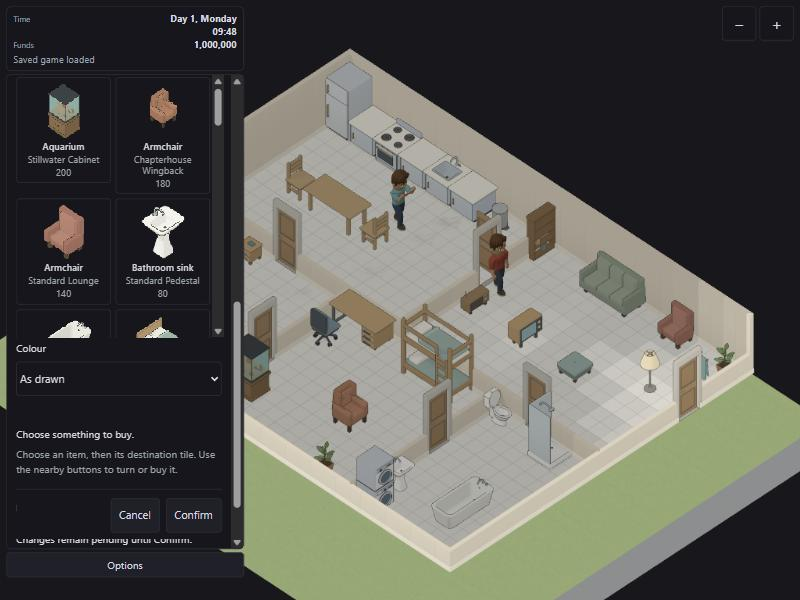
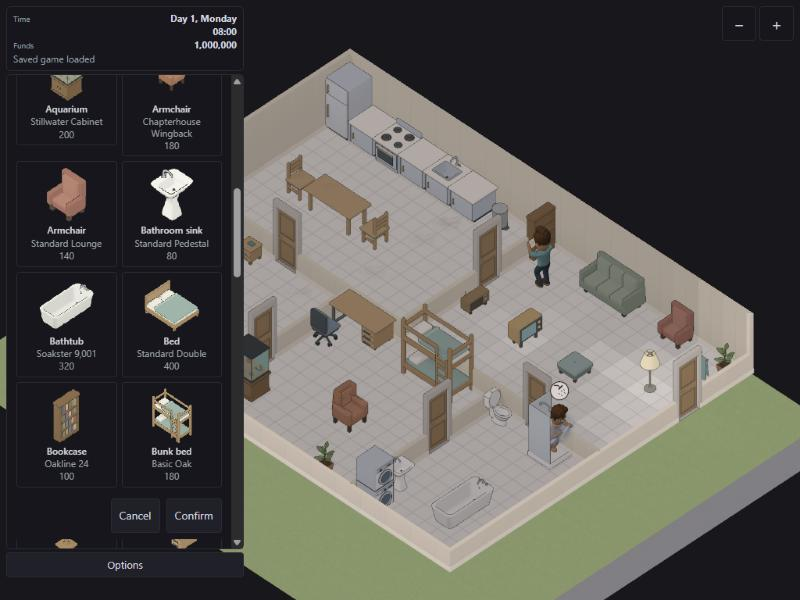
Fit whole cards on the phone, scroll the panel once, and hide the colour list until an item is chosen
The visual review rejected the first played pass. On a phone the dock's
short view showed only the tops of the full-height cards, so a phone
card now lays a 52 pixel picture beside its type, model and price and
fits whole. On a desktop the grid scrolled inside the scrolling panel,
so the panel's pinned footer covered its last row and two scroll bars
stood side by side; only the panel scrolls now. The Colour list showed
with nothing chosen, against rule 4 of the spec; it is hidden until an
item is chosen, with a test. The filters' pressed buttons are drawn in
the accent color so they read as pressed.

The evidence folder holds the final frames, with the clipped phone
frame kept beside the earlier defects.

diff --git a/web/index.html b/web/index.html
@@ -803,9 +803,8 @@
       #buy-clear-filters { justify-self: start; min-height: 36px; font-size: 13px; }
       .catalogue-grid {
         display: grid; grid-template-columns: repeat(auto-fill, minmax(92px, 1fr)); gap: 6px;
-        /* A scrolling grid would otherwise squash its auto rows to the cards' minimum height. */
-        grid-auto-rows: max-content; align-items: start;
-        max-height: 330px; overflow-y: auto; padding: 3px; margin: -3px;
+        /* Only the panel scrolls; rows take their cards' height. */
+        grid-auto-rows: max-content; align-items: start; padding: 3px; margin: -3px;
       }
       .catalogue-card {
         display: grid; justify-items: center; align-content: start; gap: 2px;
@@ -817,6 +816,7 @@
       @media (any-pointer: fine) {
         #builder-controls .catalogue-filters .hud-button, #builder-controls #buy-clear-filters { min-height: 32px; padding: 3px 8px; font-size: 12px; }
       }
+      .catalogue-filters .hud-button[aria-pressed='true'] { border-color: var(--need-fill); color: var(--need-fill); font-weight: 600; }
       .catalogue-card:hover { background: #29313a; }
       .catalogue-card:focus-visible { outline: 2px solid var(--need-fill); outline-offset: 2px; }
       .catalogue-card[aria-pressed='true'] { border-color: var(--need-fill); box-shadow: 0 0 0 1px var(--need-fill); }
@@ -1429,7 +1429,7 @@
             <span class="catalogue-filter-label" id="buy-object-label">Buy</span>
             <div id="buy-object" class="catalogue-grid" role="group" aria-labelledby="buy-object-label"></div>
             <div id="buy-identity" hidden></div>
-            <label for="buy-colour">Colour</label>
+            <label id="buy-colour-label" for="buy-colour">Colour</label>
             <select id="buy-colour"></select>
             <div class="builder-row">
               <span id="buy-facing"></span>

diff --git a/web/src/ui/build-controls.css b/web/src/ui/build-controls.css
@@ -101,12 +101,16 @@ body[data-building='true'] #build-camera { display: flex; }
   #builder-dock .shortcuts { margin-top: 4px; }
   #builder-dock .shortcuts > summary { min-height: 44px; }
   /* A scroll container's automatic minimum height is zero, so the strip
-     keeps the height of its cards or the dock would squeeze it shut. */
-  #builder-dock .catalogue-grid { display: flex; flex-wrap: nowrap; overflow-x: auto; overflow-y: hidden; max-height: none; min-height: max-content; flex: none; }
+     keeps the height of its cards or the dock would squeeze it shut. In the
+     dock a card lays its picture beside its lines, so the whole card fits
+     the dock's short view. */
+  #builder-dock .catalogue-grid { display: flex; flex-wrap: nowrap; overflow-x: auto; overflow-y: hidden; min-height: max-content; flex: none; }
   /* The Buy tool scrolls inside the dock; its rows keep their content's
      height rather than sharing the dock's, so nothing overlaps. */
   #builder-dock #buy-tool { grid-auto-rows: max-content; }
-  #builder-dock .catalogue-card { flex: 0 0 96px; }
+  #builder-dock .catalogue-card { flex: 0 0 172px; grid-template-columns: 52px minmax(0, 1fr); justify-items: start; align-items: center; column-gap: 6px; row-gap: 0; padding: 4px 6px; text-align: left; }
+  #builder-dock .catalogue-picture { grid-row: 1 / span 3; width: 52px; height: 52px; }
+  #builder-dock .catalogue-type, #builder-dock .catalogue-model, #builder-dock .catalogue-price { grid-column: 2; text-align: left; }
 }
 #build-context-layout[hidden] { display: none !important; }
 body[data-build-rows='true'] #build-context-layout { position: fixed; inset: 8px; display: grid; grid-template-rows: auto minmax(24px, 1fr) auto minmax(0, 36dvh); gap: 4px; z-index: 4; pointer-events: none; }

diff --git a/web/src/ui/buy-tool-controls.ts b/web/src/ui/buy-tool-controls.ts
@@ -100,6 +100,7 @@ export class BuyToolControls {
   private readonly showButtons: { value: number | null; button: HTMLButtonElement }[] = [];
   private readonly facts: HTMLElement;
   private readonly colour: HTMLSelectElement;
+  private readonly colourLabel: HTMLElement;
   private readonly serves: HTMLElement;
   private readonly facing: HTMLElement;
   private readonly price: HTMLElement;
@@ -159,6 +160,7 @@ export class BuyToolControls {
       this.render();
     });
     this.colour = required('buy-colour');
+    this.colourLabel = required('buy-colour-label');
     // [RC-slice-buy]: the colourways are content, so the list is built once.
     for (const [index, name] of tool.colourways.entries()) {
       const option = document.createElement('option');
@@ -288,6 +290,9 @@ export class BuyToolControls {
     this.clearFilters.disabled = held || (tool.filter === null && tool.roomFilter === null);
     this.colour.value = String(tool.colourway);
     this.colour.disabled = held || tool.colourways.length < 2;
+    // Rule 4: nothing about an item shows beneath the grid until one is chosen.
+    this.colour.hidden = tool.chosen === null;
+    this.colourLabel.hidden = tool.chosen === null;
     const model = tool.chosen?.model;
     this.facts.textContent = model ? modelFactsLabel(model, this.needNames) : '';
     this.serves.textContent = tool.chosen ? servesLabel(tool.chosen.needs, this.needNames) : '';

diff --git a/web/tests/buy-tool.test.ts b/web/tests/buy-tool.test.ts
@@ -657,6 +657,18 @@ describe('BuyToolControls', () => {
       element('buy-serves').textContent]).toEqual([null, CHOOSE_ITEM, '', '']);
   });
 
+  it('shows the Colour list only while an item is chosen', () => {
+    const { buy, view, element } = controls();
+    buy.enter();
+    view.render();
+    expect([element('buy-colour').hidden, element('buy-colour-label').hidden]).toEqual([true, true]);
+    cards(element)[1].fire('click');
+    expect([element('buy-colour').hidden, element('buy-colour-label').hidden]).toEqual([false, false]);
+    buy.cancel();
+    view.render();
+    expect(element('buy-colour').hidden).toBe(true);
+  });
+
   it('keeps one card in the Tab order, and Choose item focuses the chosen card or the first shown', () => {
     const { buy, source, view, doc, element } = controls();
     buy.enter();

diff --git a/docs/evidence/2026-10-17-store-catalogue/README.md b/docs/evidence/2026-10-17-store-catalogue/README.md
@@ -1,19 +1,23 @@
 # Store catalogue played pass, 2026-10-17
 
-A played check of the Buy tool's catalogue (issue 252) on the production bundle of branch `twcl/252-store`, served by `vite preview` on port 4173 and driven in the desktop app's built-in browser with the game's sound off, at the pane's desktop size and at the 375 by 812 phone preset. The household's money came from a schema-thirteen save of the shipped lot at 08:00 with $1,000,000, written into the page's save slot and loaded at startup. The frames are the browser tool's captures, 800 by 600 on desktop and 375 by 812 on the phone.
+A played check of the Buy tool's catalogue (issue 252) on the production bundle of branch `twcl/252-store`, served by `vite preview` on port 4173 and driven in the desktop app's built-in browser with the game's sound off, at the pane's desktop size and at the 375 by 812 phone preset. The household's money came from a schema-thirteen save of the shipped lot at 08:00 with $1,000,000, written into the page's save slot and loaded at startup. The frames are the browser tool's captures, 800 by 600 on desktop and 375 by 812 on the phone. Frames `02` and `03` come from a page session on the bundle before the second round of fixes, which changed only the layout below the grid, the phone card and the filters' pressed style; the other numbered frames come from the final bundle.
 
 | Image | Moment | What it shows |
 | --- | --- | --- |
-| `01-catalogue-cards.jpg` | Buy chosen, the grid scrolled into view | Two columns of cards, each with the item's picture as drawn in the house, the type in bold, the model and the price: Aquarium, Stillwater Cabinet, 200; Armchair, Chapterhouse Wingback, 180; Armchair, Standard Lounge, 140; Bathroom sink, Standard Pedestal, 80. |
+| `01-catalogue-cards.jpg` | Buy chosen, the panel scrolled to the cards | Two columns of cards, each with the item's picture as drawn in the house, the type in bold, the model and the price, from Aquarium and Armchair down to Bookcase and Bunk bed; one scroll bar, the panel's. |
 | `02-card-chosen-with-ghost.jpg` | The Standard Lounge card pressed | The card outlined as chosen; beneath the grid the identity line, the Colour list, the facing and Price: 140; the ghost on the lot with Buy $140, the two rotations, Choose item and Cancel beside it. |
-| `03-kitchen-filter-after-purchase.jpg` | After Buy, then Kitchen | Funds 999,860 and the new armchair in the house; Kitchen and Everything pressed; Clear filters enabled; the grid narrowed to the nine kitchen items, Dining chair and Dining table first. |
-| `04-phone-strip.jpg` | The phone preset, Buy chosen | The Build dock with the tool buttons and one row of cards that scrolls sideways, the fourth card cut by the edge; nothing overlaps. |
+| `03-kitchen-filter-after-purchase.jpg` | After Buy, then Kitchen | Funds 999,860 and the new armchair in the house; Kitchen and Everything pressed; Clear filters enabled; the grid narrowed to the nine kitchen items. |
+| `04-phone-strip.jpg` | The phone preset, the dock scrolled to the cards | One row of cards, each with its picture beside its type, model and price (Aquarium, Stillwater Cabinet, 200; Armchair, Chapterhouse Wingback, 180), the second card cut by the edge to show the strip scrolls sideways; nothing overlaps. |
+| `05-grid-end-no-colour-list.jpg` | The end of the grid, nothing chosen | The last cards (Television, Toilet, Trash can, Washer-dryer), then only the status Choose something to buy. and the hint; no Colour list; the Cancel and Confirm footer below the content, not over a card. |
+| `06-filter-rows-pressed.jpg` | The filter rows | Every room and Everything pressed, drawn in blue with a blue border, the other buttons plain. |
+| `07-phone-filter-rows.jpg` | The phone preset, the dock scrolled to its top | The Room label and row above the cards, Every room pressed. |
 | `00-defect-squashed-cards.jpg` | The first desktop build | The cards squashed to 44 pixels, so only the pictures' tops showed: the scrolling grid gave its rows the cards' minimum height. Kept so the review can see it rejected. |
-| `00-defect-phone-overlap.jpg` | The second phone build | The Colour list drawn over the card strip: the Buy tool's own grid shared the dock's height among its rows. Kept for the same reason. |
+| `00-defect-phone-overlap.jpg` | The second phone build | The Colour list drawn over the card strip: the Buy tool's own grid shared the dock's height among its rows. |
+| `00-defect-phone-cards-clipped.jpg` | The third phone build | Full-height cards in a dock too short to show them: only the pictures' tops, no names or prices. |
 
 Checked in the page as well: thirty cards, all enabled with $1,000,000; Clear filters pressed Every room and Everything and showed all thirty cards again, and went disabled; the purchase reported Armchair bought.
 
-Three layout defects were found and fixed during the pass: the scrolling grid's rows now take their content's height, the phone strip keeps its cards' height, and the Buy tool's rows in the phone dock take their content's height.
+The pass found six layout defects, all fixed before the final frames: the scrolling grid's rows took the cards' minimum height; the phone dock squeezed the strip shut; the Buy tool's rows in the dock shared the dock's height, so the Colour list overlapped the cards; the full-height cards did not fit the dock's short view, so phone cards now lay the picture beside the lines; the grid scrolled inside the scrolling panel, so the panel's pinned footer covered its last row and two scroll bars stood side by side, and now only the panel scrolls; and the Colour list showed with nothing chosen, against rule 4. The filters' pressed state is now drawn in the accent color.
 
 ## Independent visual review
 

diff --git a/docs/specs/2026-10-17-store-catalogue.md b/docs/specs/2026-10-17-store-catalogue.md
@@ -18,9 +18,9 @@ In Build mode's Buy tool the player sees a grid of cards, one per item for sale:
 1. **Cards.** The catalogue shows one card per item in the order the old list used (type name, then model name, then content order). A card shows the item's picture, the type name as its primary line, the model name as its secondary line when the item has one, and the price as the Funds line writes it. A card is a button named `{type}: {model}, {price}` (or `{type}, {price}` without a model name) for assistive technology. The chosen item's card carries `aria-pressed="true"`. An item the household cannot afford has a disabled card; it stays visible so the player can see what to save for.
 2. **Pictures.** A card's picture is the item's base-facing sprite as the game draws it, cropped to its content bounds, scaled to fit a 72 by 72 logical pixel canvas without smoothing, with its foreground layer drawn over it aligned by the sprites' anchors, in the art as drawn (colourway 0). The sprite comes from `purchasePreview` at tile (0, 0) and the base facing, the same query the ghost uses. The pictures are drawn once per catalogue, after the panel is built: the pages of the sprite atlas are fetched one at a time, each decoded once and released after every card on it is drawn, so a phone never holds two pages. A page that fails to load leaves its cards with their names and prices; nothing else changes.
 3. **Filters.** The Room row holds Every room and then each room any item belongs to, in alphabetical order with the room's words capitalised; the Show row holds Everything and then each need some item serves, in need order. One button of each row is pressed at a time (`aria-pressed`). Clear filters presses Every room and Everything; it is disabled while both are pressed. The filter rules of [CB-filter] hold: a filter that hides the chosen item drops the choice and its ghost, the filters are kept while the tool is left and re-entered, and a Load presses Every room and Everything.
-4. **Chosen item.** Beneath the grid, when an item is chosen, the panel shows what it showed before: the identity disclosure with the type, the model and its description, the Colour list, the facing, the price, what the item is good for and the buying facts. Nothing is shown there when nothing is chosen.
+4. **Chosen item.** Beneath the grid, when an item is chosen, the panel shows what it showed before: the identity disclosure with the type, the model and its description, the Colour list, the facing, the price, what the item is good for and the buying facts. Nothing about an item is shown there, the Colour list included, when nothing is chosen; the status line and the hint stay.
 5. **Keys and focus.** `[` and `]` step through the visible, affordable cards in grid order, as they stepped through the list. Choose item beside the ghost focuses the chosen card, or the first visible card when nothing is chosen. Inside the grid the arrow keys move focus between visible cards in reading order and Enter or Space press the focused card; Tab leaves the grid. Every control is disabled while a purchase is on its way or another pause holds, as the lists were.
-6. **Phone layout.** In the Build dock the grid is one row of cards that scrolls sideways; the filter rows wrap. Cards are at least 44 pixels tall. On a desktop the grid wraps to as many columns as the panel's width holds.
+6. **Phone layout.** In the Build dock the grid is one row of cards that scrolls sideways, each card laying a 52 pixel picture beside its type, model and price so the whole card fits the dock's short view; the filter rows wrap above it. Cards are at least 44 pixels tall. On a desktop the grid wraps to as many columns as the panel's width holds and only the panel scrolls, with no second scroll area inside it.
 7. **Strings.** Room, Every room, Show, Everything, Clear filters, and the card names above; everything else keeps its current wording.
 
 ## What this does not do
